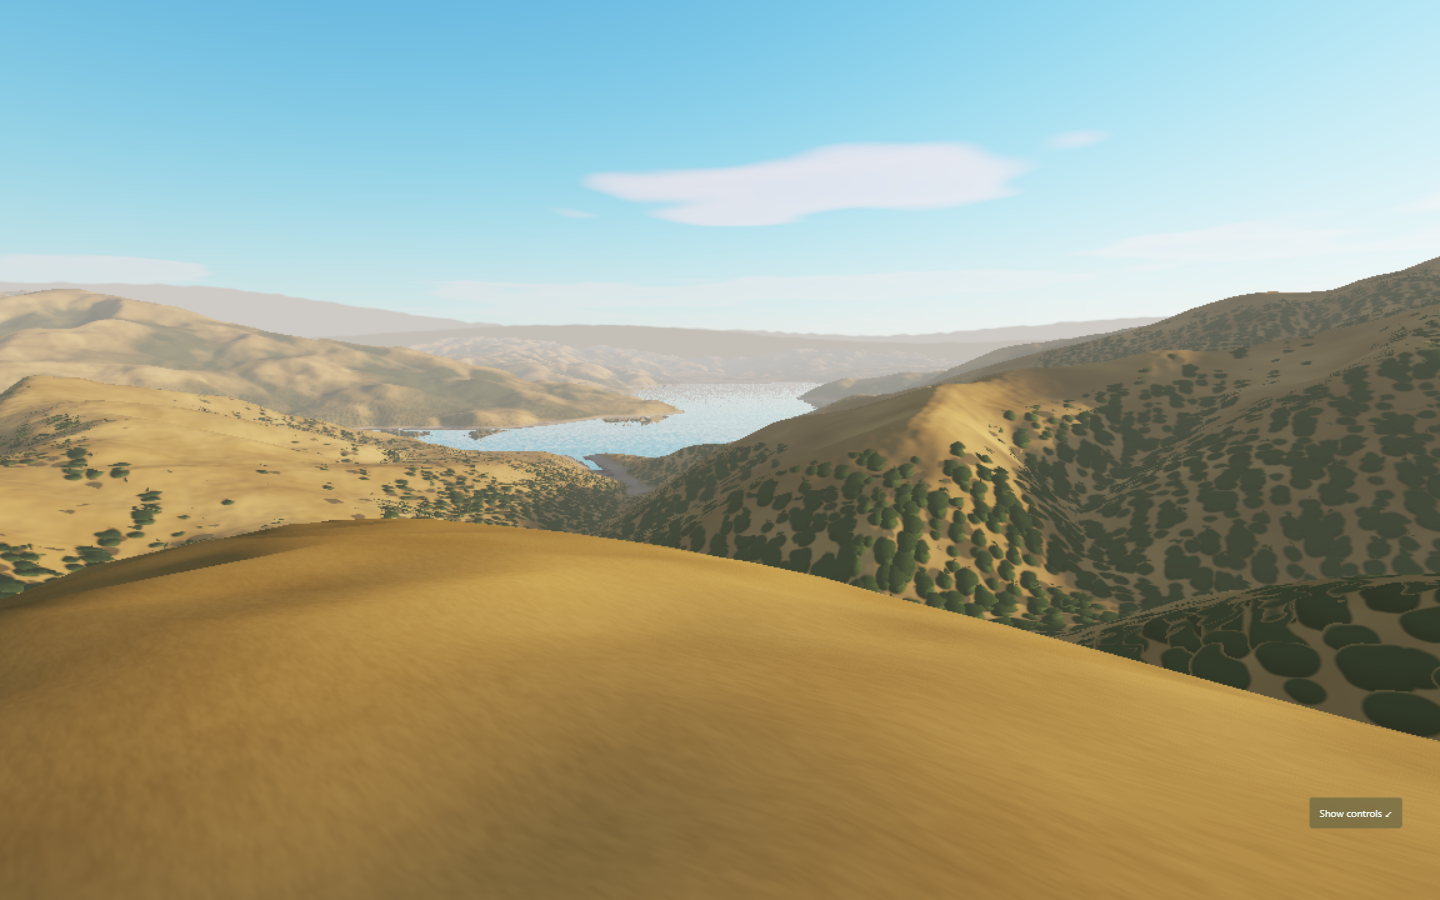
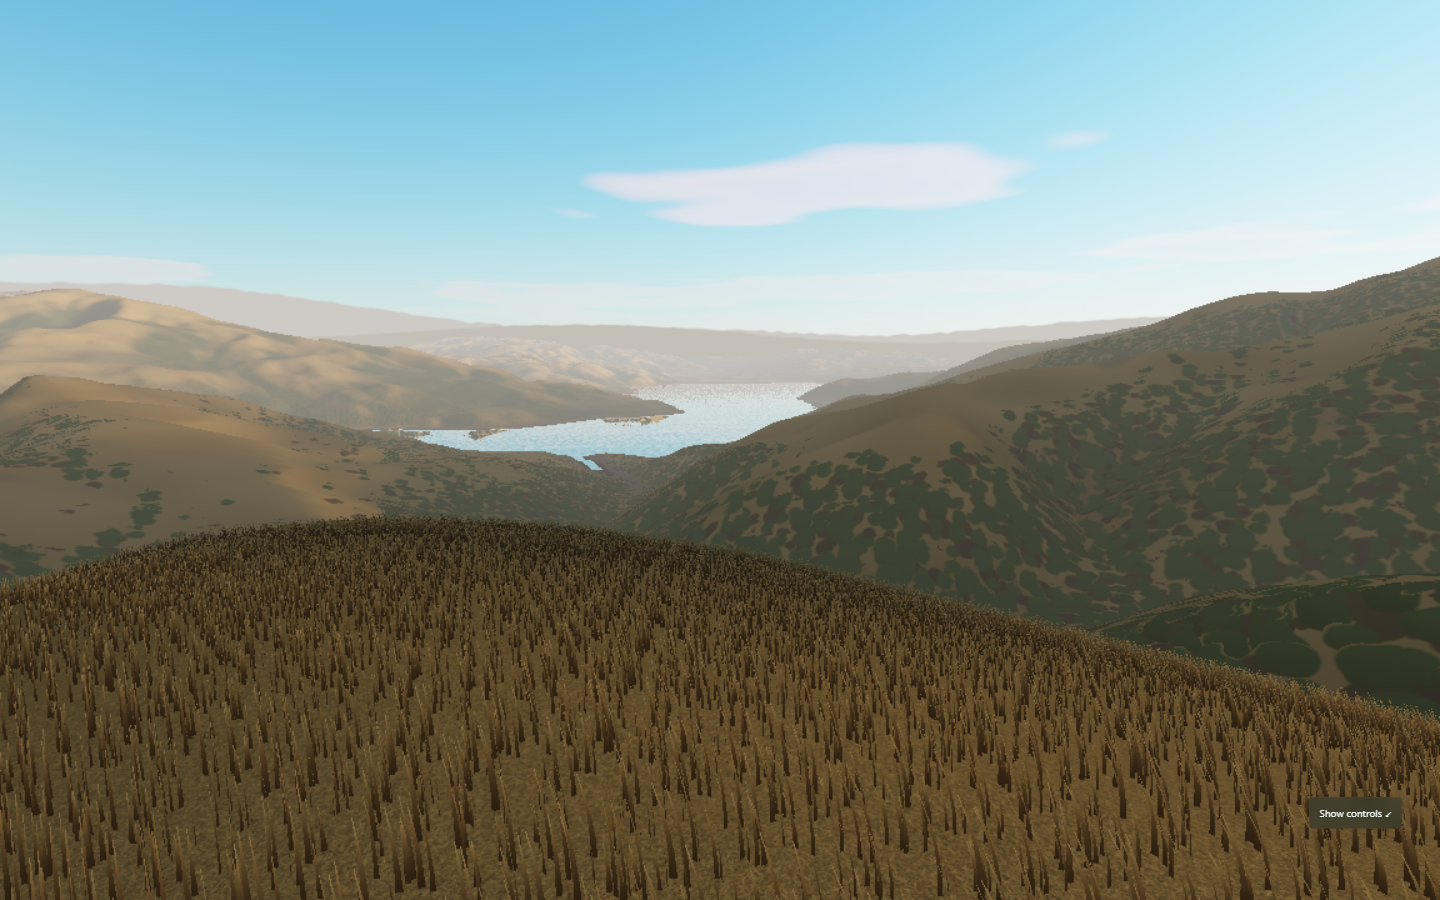
L1: blade lean, width and brightness variation

diff --git a/renderer/land/grass.js b/renderer/land/grass.js
@@ -57,7 +57,10 @@ export function createGrass(terrain, terrainTex, lightTex, lightUniforms) {
       keep = hash(worldCell.add(5.1), kf).lessThan(float(1).sub(smoothstep(u.radius.mul(0.45), u.radius, d))),
       onLand = smoothstep(4, 7, g.x).mul(smoothstep(1, 4, g.y)),
       height = hash(worldCell.add(2.7), kf).mul(0.45).add(0.3).mul(onLand).mul(select(keep, float(1), float(0))),
-      width = hash(worldCell.add(9.4), kf).mul(0.025).add(0.035),
+      width = hash(worldCell.add(9.4), kf).pow(2).mul(0.05).add(0.02),
+      // A resting lean (grass is rarely upright) in the blade's own random direction.
+      leanDir = hash(worldCell.add(6.6), kf).mul(6.2832),
+      lean = hash(worldCell.add(1.9), kf).mul(0.35),
       angle = hash(worldCell.add(4.2), kf).mul(6.2832),
       phase = hash(worldCell.add(8.8), kf).mul(6.2832),
       t = positionLocal.y,
@@ -67,10 +70,11 @@ export function createGrass(terrain, terrainTex, lightTex, lightUniforms) {
       bend = t.mul(t).mul(height).mul(float(0.18).add(gust.mul(0.75)).add(flutter)),
       side = positionLocal.x.mul(width).mul(float(1).sub(t.mul(0.9)));
     vShade.assign(vec4(light.x, light.y, hash(worldCell.add(3.3), kf), 0));
+    const rest = t.mul(t).mul(height).mul(lean);
     return vec3(
-      x.add(side.mul(cos(angle))).add(windDir.x.mul(bend)),
-      g.x.add(t.mul(height)).sub(bend.mul(bend).mul(0.6)),
-      z.add(side.mul(sin(angle))).add(windDir.y.mul(bend)),
+      x.add(side.mul(cos(angle))).add(windDir.x.mul(bend)).add(cos(leanDir).mul(rest)),
+      g.x.add(t.mul(height)).sub(bend.mul(bend).mul(0.6)).sub(rest.mul(rest).mul(0.5)),
+      z.add(side.mul(sin(angle))).add(windDir.y.mul(bend)).add(sin(leanDir).mul(rest)),
     );
   })();
 
@@ -87,8 +91,10 @@ export function createGrass(terrain, terrainTex, lightTex, lightUniforms) {
       n = normalize(vec3(0, 1, 0)),
       sunLit = lightUniforms.sunColor.mul(max(dot(n, lightUniforms.sun), 0).mul(0.75).add(0.25).mul(shade.x)),
       skyLit = lightUniforms.fill.mul(float(0.6).mul(shade.y)),
-      occlusion = mix(float(0.45), float(1), t);
-    return albedo.mul(sunLit.add(skyLit)).mul(occlusion);
+      occlusion = mix(float(0.4), float(1), t),
+      // Per-blade brightness (0.75-1.2) so the sward is not a uniform carpet.
+      variation = shade.z.mul(0.45).add(0.75);
+    return albedo.mul(sunLit.add(skyLit)).mul(occlusion).mul(variation);
   })();
 
   const material = new THREE.MeshBasicNodeMaterial({ side: THREE.DoubleSide });
